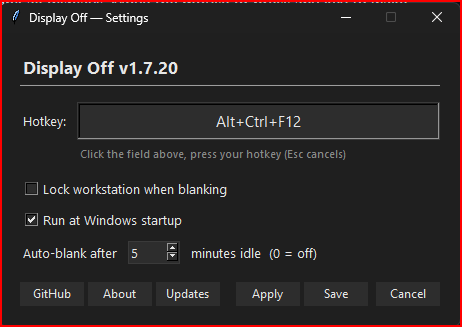
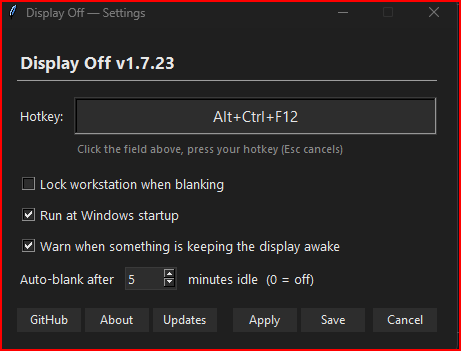
fix(settings): widen footer so Apply isn't cramped on high-DPI
Settings window width was a hardcoded 460px while the six footer buttons are sized in character units (width=8) that scale with DPI. On 125%/150% laptops the buttons overran the centre gutter and Apply butted against Updates.

- _build_footer: add a DPI-relative (~0.3in, min 24px) spacer between the info group and the action group so the gutter is part of the footer's requested width.

- Window sizing: grow to max(460, winfo_reqwidth()) + pin minsize, mirroring the About/Updates child dialog's durable sizing.

Also refresh README screenshots and move the Screenshots section up under the intro. Bump 1.7.23 -> 1.7.24.

diff --git a/displayoff.py b/displayoff.py
@@ -36,7 +36,7 @@ try:
 except ImportError:
     winreg = None
 
-__version__ = "1.7.23"
+__version__ = "1.7.24"
 
 log = logging.getLogger("displayoff")
 
@@ -4295,6 +4295,14 @@ def _build_footer(root, row, pad, on_save, on_cancel, on_apply=None,
     Left side  : [GitHub] [About] [Updates]   ← info / action buttons
     Right side : [Apply] [Save] [Cancel]      ← dialog-result buttons
 
+    A fixed minimum gutter sits between the two groups (the childless spacer
+    frame below) so the action buttons never butt up against the info buttons.
+    The buttons are sized in character units (`width=8`), which scale with
+    display DPI, while the window width is otherwise content-driven — on a
+    high-DPI laptop the gutter used to collapse to zero and "Apply" ended up
+    smooshed against "Updates" (v1.7.24 fix; the gutter is now part of the
+    footer's requested width, so the window sizing always reserves room for it).
+
     `on_about` and `on_check_updates` are optional callbacks. When supplied,
     they render as buttons that open child dialogs of the Settings root.
     Added in v1.7.0 — previously these lived in the tray right-click menu."""
@@ -4312,6 +4320,7 @@ def _build_footer(root, row, pad, on_save, on_cancel, on_apply=None,
         highlightthickness=1, highlightbackground=_THEME_SEP,
     )
 
+    # Left group — info / navigation, packed left-to-right.
     tk.Button(footer, text="GitHub",
               command=lambda: _open_url(_GITHUB_REPO_URL),
               **_btn_kw).pack(side="left")
@@ -4321,6 +4330,8 @@ def _build_footer(root, row, pad, on_save, on_cancel, on_apply=None,
     if on_check_updates is not None:
         tk.Button(footer, text="Updates", command=on_check_updates,
                   **_btn_kw).pack(side="left", padx=(4, 0))
+    # Right group — dialog-result buttons, packed right-to-left so the visual
+    # order reads [Apply] [Save] [Cancel].
     tk.Button(footer, text="Cancel", command=on_cancel,
               **_btn_kw).pack(side="right", padx=(4, 0))
     tk.Button(footer, text="Save", command=on_save,
@@ -4328,6 +4339,14 @@ def _build_footer(root, row, pad, on_save, on_cancel, on_apply=None,
     if on_apply is not None:
         tk.Button(footer, text="Apply", command=on_apply,
                   **_btn_kw).pack(side="right", padx=(0, 4))
+    # Guaranteed minimum gutter between the info group and the action group.
+    # Packed last with side="left", it claims the left edge of the remaining
+    # cavity (immediately right of "Updates"); any slack from a wider window
+    # pools to its right, so the gap is always >= this width. DPI-relative
+    # (~0.3in) so it tracks the character-unit button widths. A childless
+    # frame with an explicit width does not propagate, so it holds its size.
+    _gutter_px = max(24, footer.winfo_pixels("0.3i"))
+    tk.Frame(footer, bg=_THEME_BG, width=_gutter_px, height=1).pack(side="left")
 
 
 def _release_dialog_slot():
@@ -4515,13 +4534,23 @@ def _open_settings_impl(tray_icon, on_saved):
                   on_about=on_about_btn, on_check_updates=on_updates_btn)
 
     # Size the window to its actual content. Must happen after every widget
-    # has been added so winfo_reqheight reports the right value. Center on
-    # screen using the computed height.
+    # has been added so winfo_req{width,height} report the right values.
+    #
+    # Width was a flat 460 — correct at 100% display scaling, but the footer's
+    # six buttons are sized in character units (width=8) which scale with DPI,
+    # while a hardcoded pixel width does not. On 125%/150% laptops the action
+    # buttons overran the centre gutter and "Apply" butted against "Updates".
+    # Grow to the actual content requirement (which now includes the footer's
+    # gutter spacer) with 460 as the floor, and pin a minsize so a later
+    # font-cache / DPI re-solve can't clip the footer — mirrors the durable
+    # sizing the About/Updates child dialog already uses. v1.7.24.
     root.update_idletasks()
+    w = max(w, root.winfo_reqwidth())
     h = root.winfo_reqheight()
     x = (root.winfo_screenwidth() - w) // 2
     y = (root.winfo_screenheight() - h) // 2
     root.geometry(f"{w}x{h}+{x}+{y}")
+    root.minsize(w, h)
 
     # Alpha trick to mask the deiconify → first-paint flash. Without this,
     # Win11 briefly paints the window with default-light chrome on first show

diff --git a/CHANGELOG.md b/CHANGELOG.md
@@ -1,5 +1,19 @@
 # Changelog — Display Off
 
+## [1.7.24] — 2026-06-01
+
+UX polish: settings-dialog footer spacing on high-DPI displays, plus refreshed README screenshots.
+
+### Fixed
+
+- **Settings footer "Apply" button cramped against "Updates" on high-DPI displays.** The settings window width was a hardcoded `460` px, but the six footer buttons are sized in character units (`width=8`), which scale with display DPI while the pixel constant did not. At 100% scaling the two button groups (`[GitHub] [About] [Updates]` left, `[Apply] [Save] [Cancel]` right) had a comfortable centre gutter; at 125%/150% (common on laptops) the buttons rendered wider in pixels, consumed the whole interior, and the gutter collapsed to zero — so "Apply" butted directly against "Updates". Two complementary fixes, both mirroring the durable sizing the About/Updates child dialog already used:
+  - **Guaranteed gutter spacer.** `_build_footer` now packs a childless, DPI-relative (~0.3 in, min 24 px) spacer frame between the info group and the action group. Because it contributes to the footer's requested width, the window sizing always reserves room for it; any extra width from a wider window pools into the same gutter, so the gap is always at least the spacer width.
+  - **Content-driven window width + sticky minsize.** The settings window now grows to `max(460, winfo_reqwidth())` after all widgets are built (instead of a flat 460) and pins a `minsize`, so the footer can't overflow the gutter and a later font-cache / DPI re-solve can't clip it.
+
+### Changed
+
+- **Refreshed README screenshots** (tray menu + settings dialog) to the current UI, and moved the **Screenshots** section up to directly below the intro — visible immediately instead of buried after *Why this exists → Quickstart → Features*.
+
 ## [1.7.23] — 2026-05-27
 
 Same-day follow-up to v1.7.22. Two small UX fixes surfaced once the v1.7.22 standalone bundle landed on a real install path with autostart re-enabled.

diff --git a/release-notes.md b/release-notes.md
@@ -1,12 +1,11 @@
-Same-day follow-up to v1.7.22. Two small UX fixes surfaced once the v1.7.22 standalone bundle landed on a real install path with autostart re-enabled.
+UX polish: settings-dialog footer spacing on high-DPI displays, plus refreshed README screenshots.
 
 ### Fixed
 
-- **Windows Startup-Apps toast / Task Manager showed the long file description as the program name.** v1.7.22 set `--file-description="Force all monitors to sleep without putting the PC to sleep."` so Windows would display that full sentence anywhere it sourced the user-facing app name from the PE `FileDescription` field — most visibly in the "App is now configured to run when you sign in" toast that fires when autostart is enabled. Shortened to `"Display Off"` in both `build-release.sh` and `build-exe.bat`. The longer descriptive sentence lives in the README and the GitHub release description, which is where it belongs. `--product-name` was already `"Display Off"`; this aligns `FileDescription` with it.
+- **Settings footer "Apply" button cramped against "Updates" on high-DPI displays.** The settings window width was a hardcoded `460` px, but the six footer buttons are sized in character units (`width=8`), which scale with display DPI while the pixel constant did not. At 100% scaling the two button groups (`[GitHub] [About] [Updates]` left, `[Apply] [Save] [Cancel]` right) had a comfortable centre gutter; at 125%/150% (common on laptops) the buttons rendered wider in pixels, consumed the whole interior, and the gutter collapsed to zero — so "Apply" butted directly against "Updates". Two complementary fixes, both mirroring the durable sizing the About/Updates child dialog already used:
+  - **Guaranteed gutter spacer.** `_build_footer` now packs a childless, DPI-relative (~0.3 in, min 24 px) spacer frame between the info group and the action group. Because it contributes to the footer's requested width, the window sizing always reserves room for it; any extra width from a wider window pools into the same gutter, so the gap is always at least the spacer width.
+  - **Content-driven window width + sticky minsize.** The settings window now grows to `max(460, winfo_reqwidth())` after all widgets are built (instead of a flat 460) and pins a `minsize`, so the footer can't overflow the gutter and a later font-cache / DPI re-solve can't clip it.
 
-### Added
+### Changed
 
-- **Tray right-click submenu: "Auto-blank when idle"** with presets Off / 5 minutes / 10 minutes / 30 minutes. Each item is a radio (only one checked at a time, reflecting `cfg['idle_blank_minutes']`). Clicking a preset persists the value via `save_config` + re-renders the menu + fires a `Display Off — Auto-blank: X min idle` toast for confirmation. Before v1.7.23 the only way to change the idle threshold was the Settings dialog spinbox; the submenu makes the common-case toggle a single right-click instead of opening the dialog.
-  - **Custom (non-preset) values still work** via Settings. If `idle_blank_minutes` holds e.g. 15, none of the submenu radio items render checked, matching standard radio-button UX — clicking any preset overwrites the custom value (intentional; that's the meaning of clicking a preset).
-  - **`_idle_check` / `_idle_set` helpers** live inside `run_tray()`, read `load_config()` fresh on every render and click so a stale value never wins against a config edit from elsewhere. 4 small JSON reads per right-click is bounded — `displayoff_config.json` is <200 bytes, <1ms per read.
-
+- **Refreshed README screenshots** (tray menu + settings dialog) to the current UI, and moved the **Screenshots** section up to directly below the intro — visible immediately instead of buried after *Why this exists → Quickstart → Features*.

diff --git a/README.md b/README.md
@@ -10,6 +10,12 @@ Tiny system tray utility that turns off all monitors without putting the PC to s
 
 **Double-click** the tray icon or press **Ctrl+Alt+F12** to blank all displays. Move the mouse or press any key to wake.
 
+## Screenshots
+
+| Tray Menu | Settings |
+|:---:|:---:|
+| ![Menu](screenshots/displayoffmenu.png) | ![Settings](screenshots/displayoffsettings.png) |
+
 ## Why this exists
 
 The classic `SC_MONITORPOWER` mechanism — used by NirCmd, AutoHotkey scripts, PowerToys, and every PowerShell one-liner out there — **breaks on Modern Standby + hybrid-GPU laptops**, where it triggers a wake-handshake loop the user can't recover from. Display Off works around this by hooking into Windows' native idle-display-off code path (the one wired to *Settings ▸ Power ▸ "Turn off the display after N minutes"*) instead of sending `SC_MONITORPOWER`. The legacy mechanism is still available as an opt-in for users on hardware where it works (and where the legacy path is slightly faster).
@@ -49,12 +55,6 @@ Both modes use the same global hotkey (**Ctrl+Alt+F12** by default) and the same
 - **Optional auto-blank-when-idle** — fires once after N minutes of inactivity, re-arms on activity
 - **Autostart toggle** — one-click register/unregister at Windows startup
 - **No admin required, no telemetry, no automatic phone-home** — manual update-check only
-
-## Screenshots
-
-| Tray Menu | Settings |
-|:---:|:---:|
-| ![Menu](screenshots/displayoffmenu.png) | ![Settings](screenshots/displayoffsettings.png) |
 
 ## Usage
 